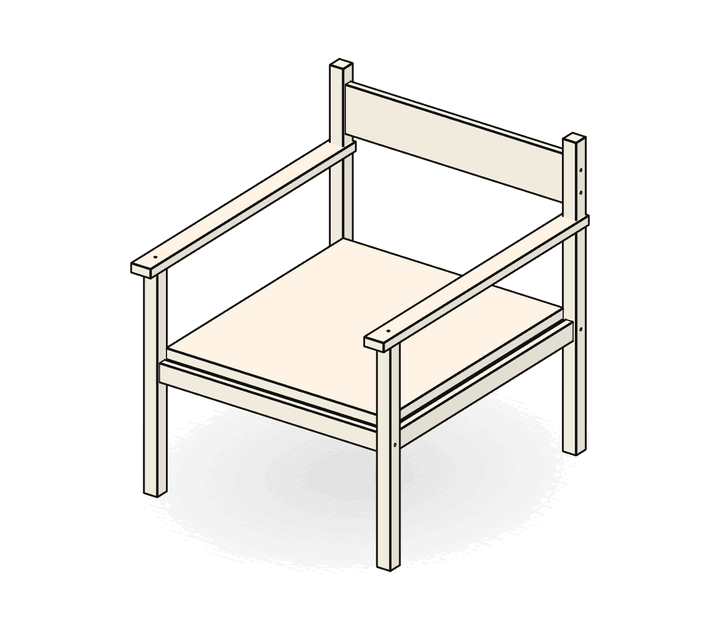
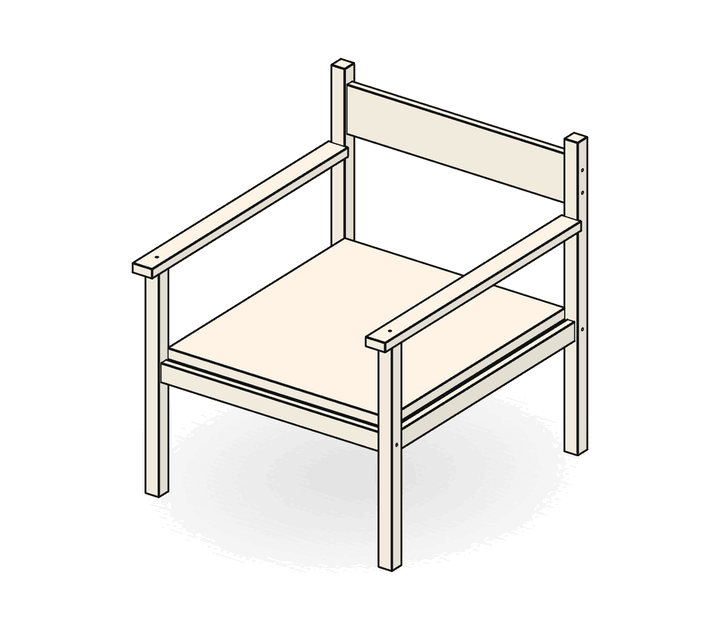
Fix the clashes the QA check found
Runners are drawn 12.5 mm deep, the room drawers leave them. Doors turn about the front edge of their hinge side, as cup hinges do, and openDoor takes an angle. Bench armrests stop at the back leg; lounger battens sit inboard of the legs, on lowered cross rails, the support under the backrest and the seat screws in slats. Drawer bottoms sit in grooves, not through the backs (JENSLEV, LIMFJORDEN wardrobes); the 120 wardrobe's stile is flush with its runner panel; the 3+3 chest's back goes 11 mm into the top. Chair seat bolts start at the leg rail (BELLINGE, PURHUS) or a corner tab (MELBY); the clothes rails' shelf bolts go through the uprights.

diff --git a/src/lib/plan/lounger.ts b/src/lib/plan/lounger.ts
@@ -28,7 +28,9 @@ export function buildLounger(b: PlanBuilder, s: ProductSpec) {
   const legs = [-1, 1].flatMap((sx) => [-1, 1].map((sz) => b.place(legT, [sx * xl, railTop / 2, sz * zl])));
   const crossT = b.part("Cross rail", [W - 2 * railT, 60, 30], { material: "wood" });
   const zc = [-L / 2 + 150, 0, L / 2 - 150];
-  const cross = zc.map((z) => b.place(crossT, [0, ry, z]));
+  // 20 mm below the rails' tops, so the battens under the seat sit on them
+  const cy = railTop - 20 - 30;
+  const cross = zc.map((z) => b.place(crossT, [0, cy, z]));
 
   /* ---------- the slatted seat, and the backrest ---------- */
   const slats = (len: number): PartPiece[] => {
@@ -36,17 +38,18 @@ export function buildLounger(b: PlanBuilder, s: ProductSpec) {
     const step = len / n;
     return Array.from({ length: n }, (_, i) => ({ shape: "box", size: [W - 20, slatT, step - 22], pos: [0, 0, -len / 2 + step * (i + 0.5)] }));
   };
+  const batX = W / 2 - railT - legS - 17; // the battens under the slats, inboard of the legs
   const seatLen = L / 2 - zh;
-  const seatC = b.compound("Seat", [...slats(seatLen), ...[-1, 1].map((sx) => ({ shape: "box" as const, size: [30, 20, seatLen - 20] as Vec3, pos: [sx * (W / 2 - railT - 40), -slatT / 2 - 10, 0] as Vec3 }))], { material: "wood" });
+  const seatC = b.compound("Seat", [...slats(seatLen), ...[-1, 1].map((sx) => ({ shape: "box" as const, size: [30, 20, seatLen - 20] as Vec3, pos: [sx * batX, -slatT / 2 - 10, 0] as Vec3 }))], { material: "wood" });
   const seat = b.place(seatC.type, [0, top - slatT / 2 + seatC.mid[1], zh + seatLen / 2]);
-  const backC = b.compound("Backrest", [...slats(backLen), ...[-1, 1].map((sx) => ({ shape: "box" as const, size: [30, 20, backLen - 20] as Vec3, pos: [sx * (W / 2 - railT - 40), -slatT / 2 - 10, 0] as Vec3 }))], { material: "wood" });
+  const backC = b.compound("Backrest", [...slats(backLen), ...[-1, 1].map((sx) => ({ shape: "box" as const, size: [30, 20, backLen - 20] as Vec3, pos: [sx * batX, -slatT / 2 - 10, 0] as Vec3 }))], { material: "wood" });
   // raised: it turns about the hinge, its far end up
   const along: Vec3 = [0, Math.sin(tilt), -Math.cos(tilt)];
   const bc: Vec3 = [0, top - slatT / 2 + along[1] * (backLen / 2), zh + along[2] * (backLen / 2)];
   const backrest = b.place(backC.type, bc, [tilt, 0, 0]);
   // the support: two struts up from the rails to the underside of the backrest, joined across the bottom
   const tp: Vec3 = [0, top - slatT + along[1] * backLen * 0.62, zh + along[2] * backLen * 0.62];
-  const sh = tp[1] - railTop;
+  const sh = tp[1] - railTop - 12 * Math.tan(tilt); // its square top meets the sloping backrest at its lower corner
   const supC = b.compound(
     "Back support",
     [
@@ -94,7 +97,7 @@ export function buildLounger(b: PlanBuilder, s: ProductSpec) {
       cross.forEach((c) => b.add(c, [0, 260, 0]));
       b.then(0.1);
       const bolts: FitOpts[] = [];
-      for (const z of zc) for (const sx of [-1, 1]) bolts.push({ on: rails[sx < 0 ? 0 : 1], at: [sx * (W / 2), ry, z], dir: [-sx, 0, 0], mate: cross[zc.indexOf(z)] });
+      for (const z of zc) for (const sx of [-1, 1]) bolts.push({ on: rails[sx < 0 ? 0 : 1], at: [sx * (W / 2), cy, z], dir: [-sx, 0, 0], mate: cross[zc.indexOf(z)] });
       b.fits(HW.boltL, bolts, 0.06);
     },
   );
@@ -109,7 +112,10 @@ export function buildLounger(b: PlanBuilder, s: ProductSpec) {
       b.add(seat, [0, 300, 0]);
       b.then(0.1);
       const sc: FitOpts[] = [];
-      for (const z of [zh + 120, zh + seatLen / 2, L / 2 - 120]) for (const sx of [-1, 1]) sc.push({ on: seat, at: [sx * (W / 2 - railT / 2), top, z], dir: [0, -1, 0], hole: false });
+      // each screw through the middle of the slat nearest where it's wanted, not into a gap between two
+      const n = Math.max(4, Math.round(seatLen / 95)), step = seatLen / n;
+      const onSlat = (z: number) => zh + step * (clamp(Math.floor((z - zh) / step), 0, n - 1) + 0.5);
+      for (const z of [zh + 120, zh + seatLen / 2, L / 2 - 120]) for (const sx of [-1, 1]) sc.push({ on: seat, at: [sx * (W / 2 - railT / 2), top, onSlat(z)], dir: [0, -1, 0], hole: false });
       b.fits(HW.screwM, sc, 0.08);
     },
   );

diff --git a/src/lib/plan/families/limfjorden-wardrobe.ts b/src/lib/plan/families/limfjorden-wardrobe.ts
@@ -85,7 +85,7 @@ function drawerParts(b: PlanBuilder, xc: number, fx: number) {
     l: b.place(slT, [xc - 252.5, fy + 103, 27]),
     r: b.place(srT, [xc + 252.5, fy + 103, 27]),
     back: b.place(dbT, [xc, fy + 103, -215]),
-    bottom: b.place(btT, [xc, fy + 31.5, 28]),
+    bottom: b.place(btT, [xc, fy + 31.5, 34]), // in grooves 8 mm into the back and 5 into the front
   }));
 }
 type Drawer = ReturnType<typeof drawerParts>[number];
@@ -177,7 +177,9 @@ function build120(b: PlanBuilder) {
   const railT = b.part("Drawer rail", [550, 32, 70], { label: "10" });
   const railY = [307.5, 531.5]; // the two drawer rails (10), 32 mm tall
   const rails = railY.map((y) => b.place(railT, [-307, y, 237]));
-  const stile = b.place(b.part("Front stile", [70, 1876, T], { label: "11R" }), [0, 1047, 265]);
+  // its left edge flush with the runner panel (x = -32), like the 180's stiles, so the rails meet it there
+  const SC = -32 + 35;
+  const stile = b.place(b.part("Front stile", [70, 1876, T], { label: "11R" }), [SC, 1047, 265]);
   const plinth = b.place(b.part("Plinth", [1162, 88, T], { label: "12" }), [0, 49, 246]);
   const door13 = b.place(b.part("Short door", [582, 1218, T], { label: "13" }), [-293, 1374, 286]);
   const door14 = b.place(b.part("Tall door", [582, 1890, T], { label: "14" }), [293, 1038, 286]);
@@ -218,8 +220,8 @@ function build120(b: PlanBuilder) {
   step({ title: "Prepare the front stile and the front rail", detail: "Two dowels in each end of the long stile (11R) and three cam bolts in its back. Two cam bolts in the back of the short rail (9).", kind: "dowels", tools: ["hammer", "screwdriver"], scene: "s6", pose: "-z" }, () => {
     show(stile, [0, 0, -150]);
     show(lip, [0, 0, -150]);
-    fit(A, stile, [-17, 17].map((x): Vec3 => [x, 109, 265]), [0, 1, 0], { mate: bot });
-    fit(A, stile, [-17, 17].map((x): Vec3 => [x, 1985, 265]), [0, -1, 0], { mate: top });
+    fit(A, stile, [SC - 17, SC + 17].map((x): Vec3 => [x, 109, 265]), [0, 1, 0], { mate: bot });
+    fit(A, stile, [SC - 17, SC + 17].map((x): Vec3 => [x, 1985, 265]), [0, -1, 0], { mate: top });
     fit(G, stile, [400, 1050, 1700].map((y): Vec3 => [0, y, 257]), [0, 0, 1], { mate: div });
     fit(G, lip, [-507, -107].map((x): Vec3 => [x, 798, 256]), [0, 0, 1], { mate: fixed });
   });

diff --git a/src/lib/plan/families/_seat.ts b/src/lib/plan/families/_seat.ts
@@ -77,7 +77,7 @@ export type Crossed = {
 export function crossed(o: Crossed) {
   return (b: PlanBuilder, s: ProductSpec): boolean => {
     if (s.archetype !== "seat" || Math.round(s.size.w) !== o.w || Math.round(s.size.h) !== o.h || Math.round(s.size.d) !== o.d) return false;
-    const base = o.seat.base, RAIL = 40, LEG = 32;
+    const base = o.seat.base, RAIL = 40, LEG = 32, RD = 26; // RD: the rail tube's diameter
     const seat = body(b, o.seat);
 
     // the frames run corner to corner: 2 from back left to front right, 3 from back right to front left
@@ -90,7 +90,7 @@ export function crossed(o: Crossed) {
         [
           rod(at(g, -o.frame.top / 2, base), at(g, -o.frame.len / 2 + LEG / 2, 0), LEG),
           rod(at(g, o.frame.top / 2, base), at(g, o.frame.len / 2 - LEG / 2, 0), LEG),
-          rod(at(g, -o.frame.top / 2, base - RAIL / 2), at(g, o.frame.top / 2, base - RAIL / 2), 26),
+          rod(at(g, -o.frame.top / 2, base - RAIL / 2), at(g, o.frame.top / 2, base - RAIL / 2), RD),
         ],
         { material: "metal", label },
       );
@@ -101,7 +101,7 @@ export function crossed(o: Crossed) {
     const cross: FitOpts = { on: f3, at: [0, base, 0], dir: [0, -1, 0], mate: f2 };
     // B: up through each rail end, just inside the legs, into the seat's frame
     const ups = [[f2, 1], [f3, -1]].flatMap(([f, g]) =>
-      [-1, 1].map((k): FitOpts => ({ on: f as string, at: at(g as number, (k * o.frame.top) / 2 - k * 45, base - RAIL), dir: [0, 1, 0], mate: seat })),
+      [-1, 1].map((k): FitOpts => ({ on: f as string, at: at(g as number, (k * o.frame.top) / 2 - k * 45, base - RAIL / 2 - RD / 2), dir: [0, 1, 0], mate: seat })), // from the rail's underside
     );
 
     const crossIt = () => {

diff --git a/src/lib/plan/builder.ts b/src/lib/plan/builder.ts
@@ -259,14 +259,17 @@ export class PlanBuilder {
     this.opens.push({ parts, slide: mul(out, Math.round(depth * 0.66)) });
   }
 
-  /** A door on the finished piece, hinged on its left (sgn -1) or right (sgn 1) edge: it swings about 100° out of the
-   *  front (+z) about that edge of its back face, both read from where the door was placed.
+  /** A door on the finished piece, hinged on its left (sgn -1) or right (sgn 1) edge: it swings `deg` (100 by default)
+   *  out of the front (+z) about that edge of its front face, both read from where the door was placed. A cup hinge
+   *  pivots out in front of the door like that, so the door's edge clears the front or side beside it; turning about
+   *  the back face, its front corner would swing into them. Less than 100 when an open drawer beside its hinge would
+   *  be in the way.
    *  ponytail: assumes the door stands unrotated, facing +z (every builder places them so). */
-  openDoor(key: string, sgn: number) {
+  openDoor(key: string, sgn: number, deg = 100) {
     const it = this.partItem(key);
     const [w, , t] = this.parts.find((p) => p.id === it.ref)!.size;
     const [x, , z] = it.final.pos;
-    this.opens.push({ parts: [key], hinge: { at: [x + (sgn * w) / 2, 0, z - t / 2], axis: [0, 1, 0], angle: sgn * 1.75 } });
+    this.opens.push({ parts: [key], hinge: { at: [x + (sgn * w) / 2, 0, z + t / 2], axis: [0, 1, 0], angle: (sgn * deg * Math.PI) / 180 } });
   }
 
   partItem(key: string) {

diff --git a/src/lib/plan/seat.ts b/src/lib/plan/seat.ts
@@ -234,8 +234,9 @@ function chair(b: PlanBuilder, s: ProductSpec, p: SeatParams) {
   );
 
   if (!p.arms) return;
-  const armT = b.part("Armrest", [56, 24, D + 40], { material: "wood" });
-  const arms = [-1, 1].map((sgn) => b.place(armT, [sgn * sx, AH + 12, 20]));
+  // from the back leg's front face (the back leg runs up past it to the backrest) to 40 mm past the front
+  const armT = b.part("Armrest", [56, 24, D + 40 - ls], { material: "wood" });
+  const arms = [-1, 1].map((sgn) => b.place(armT, [sgn * sx, AH + 12, (40 + ls) / 2]));
   b.step(
     {
       title: "Fit the armrests",
@@ -251,7 +252,7 @@ function chair(b: PlanBuilder, s: ProductSpec, p: SeatParams) {
       for (const [i, k] of arms.entries()) {
         const x = (i === 0 ? -1 : 1) * sx;
         bolts.push({ on: k, at: [x, AH + 24, sz], dir: [0, -1, 0], mate: fl[i] });
-        bolts.push({ on: k, at: [(i === 0 ? -1 : 1) * (W / 2), AH + 12, -sz], dir: [i === 0 ? 1 : -1, 0, 0], mate: bl[i] });
+        bolts.push({ on: bl[i], at: [x, AH + 12, -D / 2], dir: [0, 0, 1], mate: k });
       }
       b.fits(HW.boltL, bolts, 0.08);
     },

diff --git a/src/engine/drawable.ts b/src/engine/drawable.ts
@@ -290,8 +290,9 @@ export function hwDrawable(kind: HwKind, len: number, dia: number, flush = false
       addSolid(d, "br:v", () => new THREE.BoxGeometry(40, 42, 2), metal, { position: [0, 21, -15] });
       break;
     case "runner":
-      addSolid(d, `run:${len}`, () => new THREE.BoxGeometry(20, 11, len), metal, { position: [0, 5.5, 0] });
-      addSolid(d, `run:lip:${len}`, () => new THREE.BoxGeometry(4, 6, len), metal, { position: [-8, 14, 0] });
+      // 12.5 mm off the panel in all, like a real runner: drawers leave 13 mm a side for them (scripts/qa/overlaps.ts)
+      addSolid(d, `run:${len}`, () => new THREE.BoxGeometry(20, 8, len), metal, { position: [0, 4, 0] });
+      addSolid(d, `run:lip:${len}`, () => new THREE.BoxGeometry(4, 4.5, len), metal, { position: [-8, 10.25, 0] });
       break;
     case "knob":
       addSolid(d, "knob:stem", cyl(5.5, 12, 14), wood, { hull: "cyl", position: [0, 6, 0] });

diff --git a/src/lib/plan/families/melby.ts b/src/lib/plan/families/melby.ts
@@ -28,11 +28,13 @@ function build(b: PlanBuilder, s: ProductSpec): boolean {
     [
       ...corners.map((c) => rod(pt(c, TOP, BASE - 12), pt(c, FOOT, 0), 25)),
       ...corners.map((c, i) => rod(pt(c, TOP, BASE - 12), pt(corners[(i + 1) % 4], TOP, BASE - 12), 20)),
+      // a welded tab inside each corner, flush with the frame's top, that the bolt goes up through
+      ...corners.map((c) => ({ shape: "box" as const, size: [50, 3, 50] as Vec3, pos: pt(c, [TOP[0] - 25, TOP[1] - 25], BASE - 3.5) })),
     ],
     { material: "metal", label: "2" },
   );
   const legs = b.place(type, mid);
-  const bolts = corners.map((c): FitOpts => ({ on: legs, at: pt(c, [TOP[0] - 30, TOP[1] - 30], BASE - 22), dir: [0, 1, 0], mate: seat }));
+  const bolts = corners.map((c): FitOpts => ({ on: legs, at: pt(c, [TOP[0] - 30, TOP[1] - 30], BASE - 5), dir: [0, 1, 0], mate: seat }));
 
   b.step(
     {

diff --git a/src/lib/plan/families/limfjorden-chest.ts b/src/lib/plan/families/limfjorden-chest.ts
@@ -321,7 +321,7 @@ function build33(b: PlanBuilder) {
   const backRail = b.place(b.part("Back rail", [1572, 16, 88], { label: "14" }), [0, BRY, BRZ]);
   // ponytail: each back folds in two along its middle; drawn as one board, in rebates in the sides and the top
   const backT = b.part("Back panel", [796, 698, 2.5], { material: "fiber", label: "11" });
-  const backs = [-1, 1].map((g) => b.place(backT, [g * 399, GL + 72 + 349, ZB + 1.25]));
+  const backs = [-1, 1].map((g) => b.place(backT, [g * 399, TY3 + 11 - 349, ZB + 1.25])); // 11 mm up into the top, like the 4 drawer chest's
 
   // a side's joints: cam bolt in the side, dowel and cam lock in the rail, plinth or back rail
   const joint = (key: string, bolt: number[], dowel: number[], cam: (g: number) => FitOpts): Joint => ({ key, bolt, dowel, cam });

diff --git a/src/lib/plan/rack.ts b/src/lib/plan/rack.ts
@@ -62,7 +62,8 @@ export function buildRack(b: PlanBuilder, s: ProductSpec) {
       b.then(0.1);
       const list: FitOpts[] = [];
       for (const [i, sx] of [-1, 1].entries())
-        for (const z of shoes ? [-shelfD / 4, shelfD / 4] : [0]) list.push({ on: ups[i], at: [sx * (ux + tube / 2), lowY, z], dir: [-sx, 0, 0], mate: low });
+        // through the 30 mm tube into the shelf's end: two side by side, inside the tube
+        for (const z of shoes ? [-8, 8] : [0]) list.push({ on: ups[i], at: [sx * (ux + tube / 2), lowY, z], dir: [-sx, 0, 0], mate: low });
       b.fits(HW.boltS, list, 0.12);
     },
   );

diff --git a/src/lib/plan/families/jenslev.ts b/src/lib/plan/families/jenslev.ts
@@ -61,7 +61,7 @@ function build(b: PlanBuilder, s: ProductSpec): boolean {
         front: b.place(types.front, [0, fy + 97, 166]),
         sides: [b.place(types.l, [-169, fy + 82, 8]), b.place(types.r, [169, fy + 82, 8])],
         back: b.place(types.back, [0, fy + 82, -134]),
-        bottom: b.place(types.bottom, [0, fy + 30, 8]),
+        bottom: b.place(types.bottom, [0, fy + 30, 16]), // in grooves 8 mm into the back and the front
       },
       300,
     ),
